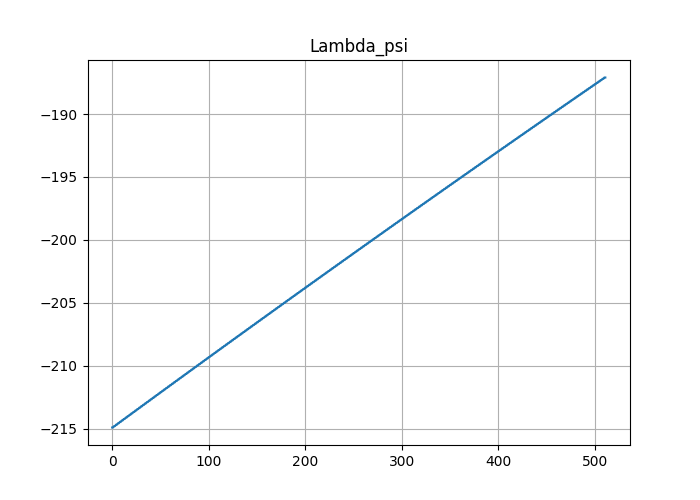
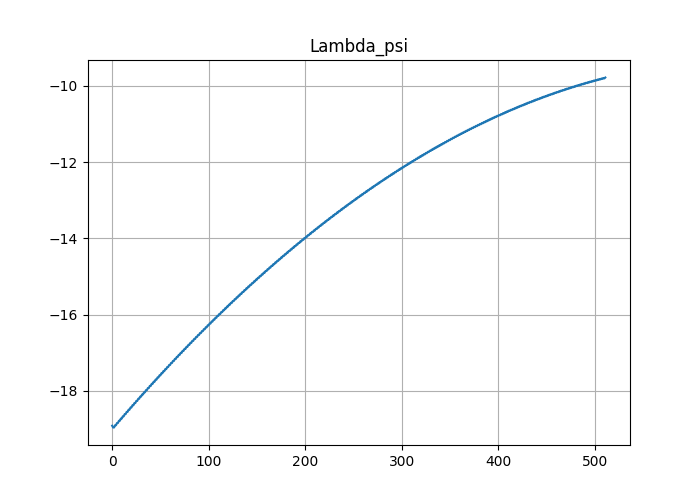
samling. add delta omega

diff --git a/04make_signal_gp_delay.py b/04make_signal_gp_delay.py
@@ -3,17 +3,20 @@ import cmath
 import matplotlib.pyplot as plt
 from scipy import interpolate
 
-begintime = 0
-endtime = 16
+begintime = -np.pi
+endtime = np.pi
 timelength = endtime - begintime
 N = 512 # number of sample
-sampling_freq = timelength / N
-timepoints = np.arange(begintime, endtime, sampling_freq)
 l = 4
 T = 2 ** l # period
-delta_omega = 2*np.pi / T
+sampling_freq = timelength / T
 P = int(N / T) # number of period
+timepoints = np.arange(begintime*P, endtime*P, sampling_freq)
+delta_omega = 2*np.pi / T
 R = 2 # degree of phase function of lanmda_T
+
+if len(timepoints) != N :
+    raise Exception("Be same the num of samples {} and timepoints {}.".format(N, len(timepoints)))
 
 alpha = 2.0
 f_0 = 0.8
